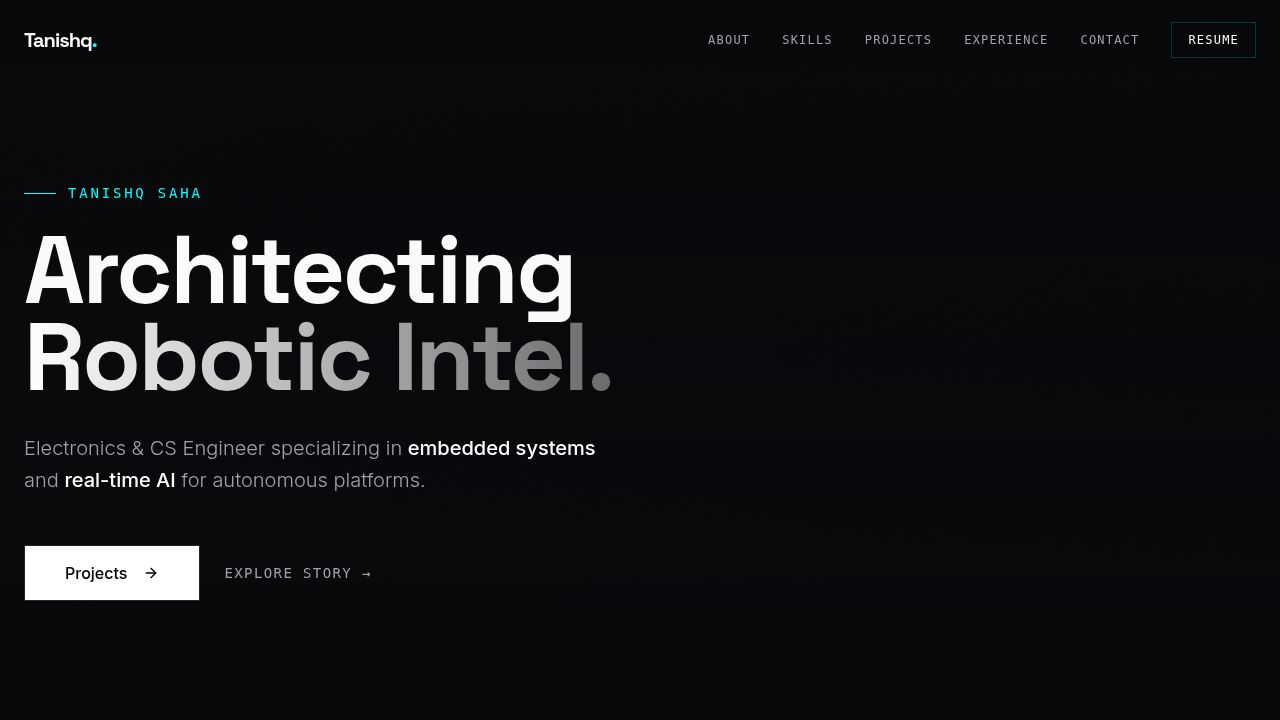
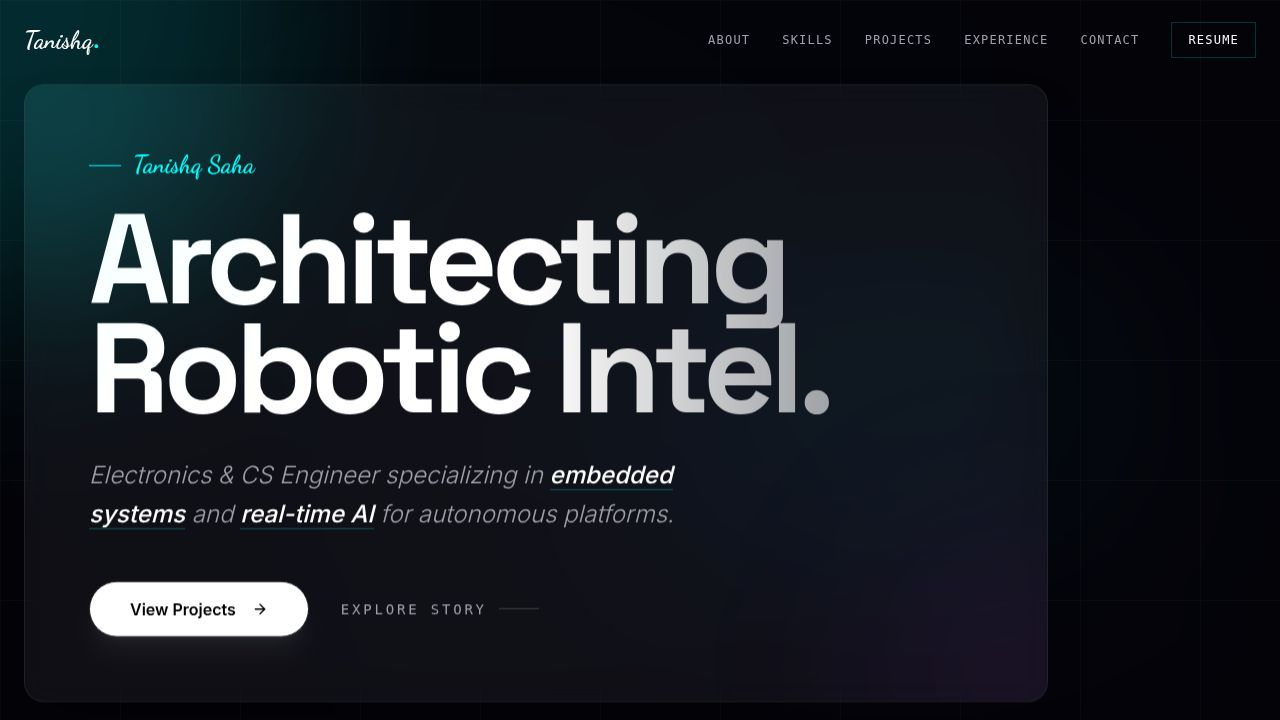
Apply a signature-style font to display names throughout the website
Adds the 'Dancing Script' Google Font and applies it to the 'Tanishq' and 'Tanishq Saha' name instances across the Navbar, Hero, and Resume sections, utilizing `--font-signature` CSS variable.

Replit-Commit-Author: Agent
Replit-Commit-Session-Id: cb9201b1-7ea9-4130-8344-9b6626456f8e
Replit-Commit-Checkpoint-Type: full_checkpoint
Replit-Commit-Event-Id: 40de0046-e9e8-4ec4-8e4d-a3a8390394ca
Replit-Commit-Screenshot-Url: https://storage.googleapis.com/screenshot-production-us-central1/34def648-cc7c-4007-8211-190f03587f2d/cb9201b1-7ea9-4130-8344-9b6626456f8e/uWuPMtv
Replit-Helium-Checkpoint-Created: true

diff --git a/client/src/pages/Resume.tsx b/client/src/pages/Resume.tsx
@@ -25,7 +25,7 @@ export default function ResumePage() {
           <header className="border-b border-white/10 pb-12 mb-12">
             <div className="flex flex-col md:flex-row justify-between items-center gap-8">
               <div className="text-center md:text-left">
-                <h1 className="text-6xl font-bold font-heading mb-4 tracking-tighter bg-gradient-to-r from-white to-white/60 bg-clip-text text-transparent">
+                <h1 className="text-7xl font-bold font-signature mb-4 tracking-normal bg-gradient-to-r from-white to-white/60 bg-clip-text text-transparent italic">
                   Tanishq
                 </h1>
                 <p className="text-primary font-mono uppercase tracking-[0.3em] text-sm font-semibold">

diff --git a/client/index.html b/client/index.html
@@ -17,7 +17,7 @@
     <link rel="icon" type="image/png" href="/favicon.png" />
     <link rel="preconnect" href="https://fonts.googleapis.com">
     <link rel="preconnect" href="https://fonts.gstatic.com" crossorigin>
-    <link href="https://fonts.googleapis.com/css2?family=Inter:wght@300;400;500;600&family=Space+Grotesk:wght@300;400;500;600;700&display=swap" rel="stylesheet">
+    <link href="https://fonts.googleapis.com/css2?family=Inter:wght@300;400;500;600&family=Space+Grotesk:wght@300;400;500;600;700&family=Dancing+Script:wght@700&display=swap" rel="stylesheet">
   </head>
   <body>
     <div id="root"></div>

diff --git a/client/src/components/sections/Hero.tsx b/client/src/components/sections/Hero.tsx
@@ -24,7 +24,7 @@ export function Hero() {
             className="flex items-center gap-3 mb-6"
           >
             <div className="h-[1px] w-8 bg-primary" />
-            <span className="text-primary font-mono text-sm tracking-[0.3em] uppercase font-semibold">Tanishq Saha</span>
+            <span className="text-primary font-signature text-2xl tracking-normal capitalize">Tanishq Saha</span>
           </motion.div>
 
           <h1 className="text-6xl md:text-9xl font-bold font-heading tracking-tighter mb-8 leading-[0.85] bg-gradient-to-r from-white via-white to-white/40 bg-clip-text text-transparent">

diff --git a/client/src/components/sections/Navbar.tsx b/client/src/components/sections/Navbar.tsx
@@ -31,8 +31,8 @@ export function Navbar() {
       }`}
     >
       <div className="container mx-auto px-6 h-20 flex items-center justify-between">
-        <Link href="/" className="text-xl font-bold font-heading tracking-tighter text-foreground group">
-          Tanishq<span className="text-primary group-hover:animate-pulse">.</span>
+        <Link href="/" className="text-2xl font-bold font-signature tracking-normal text-foreground group">
+          Tanishq<span className="text-primary group-hover:animate-pulse font-sans">.</span>
         </Link>
 
         {/* Desktop Nav */}

diff --git a/client/src/index.css b/client/src/index.css
@@ -8,6 +8,7 @@
 @theme inline {
   --font-sans: "Inter", sans-serif;
   --font-heading: "Space Grotesk", sans-serif;
+  --font-signature: "Dancing Script", cursive;
 
   --radius-sm: calc(var(--radius) - 4px);
   --radius-md: calc(var(--radius) - 2px);
